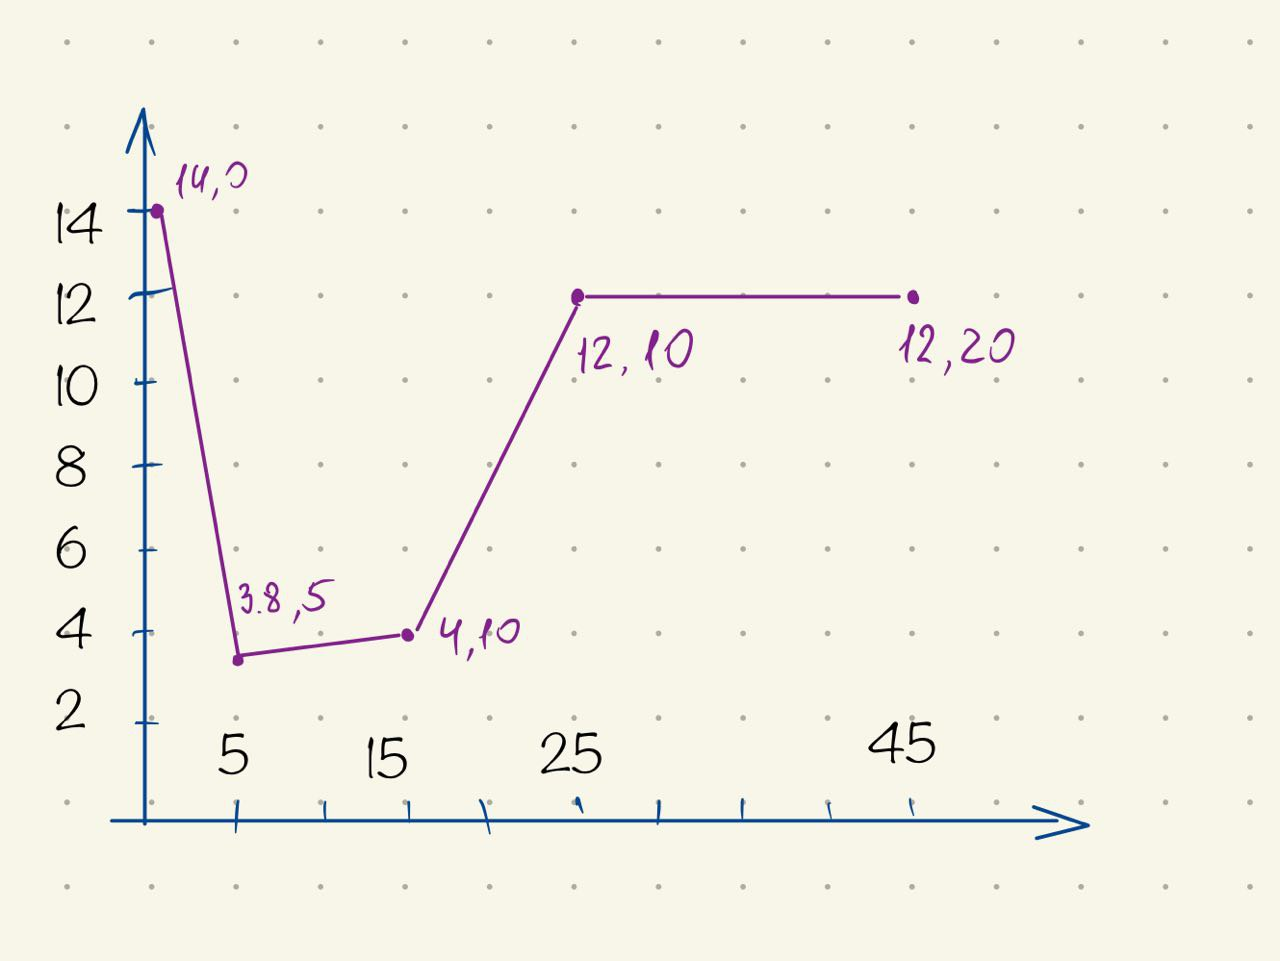
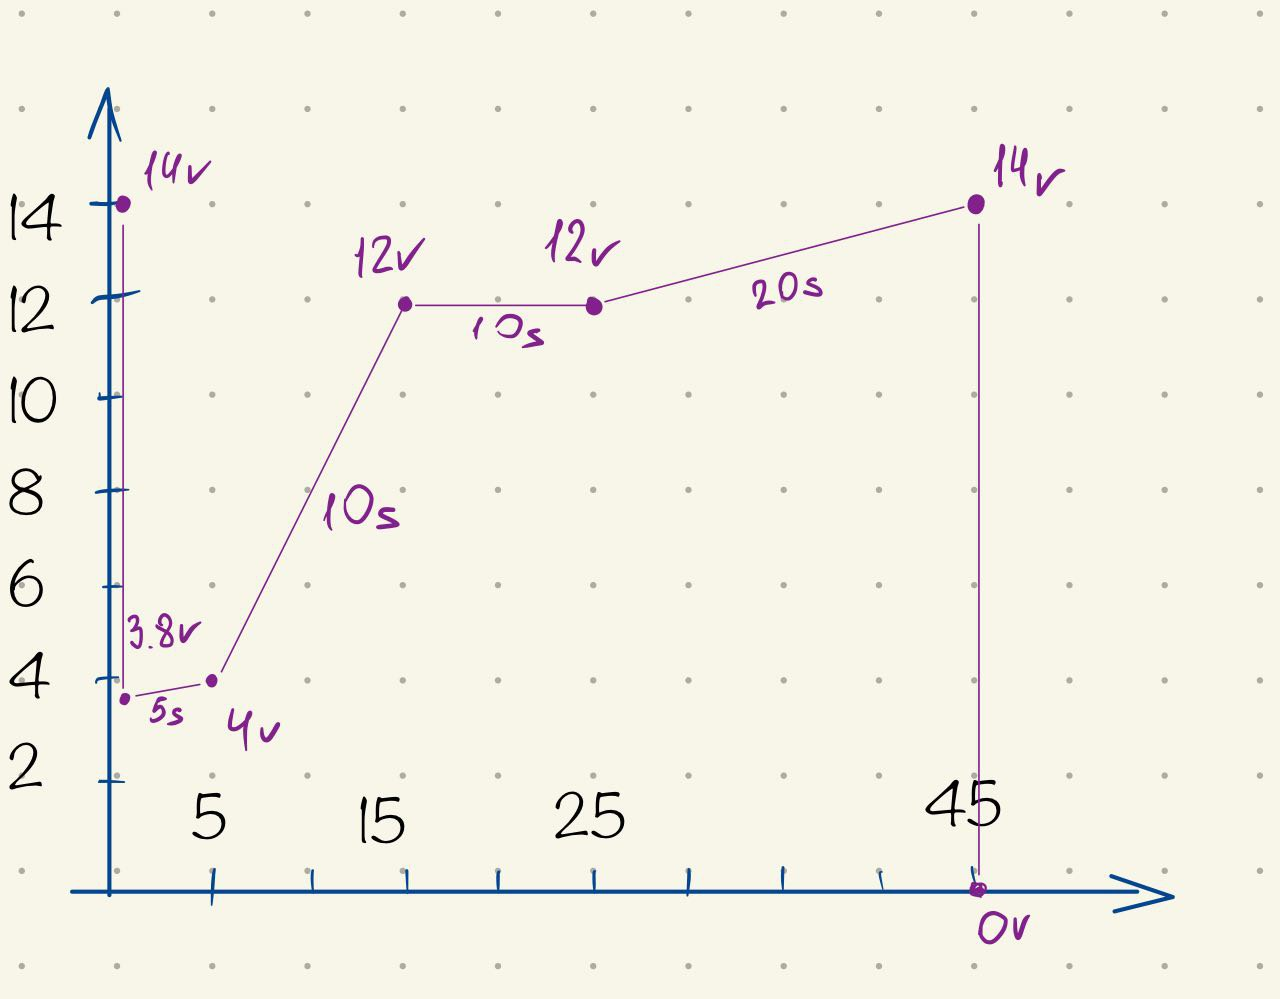
Update picture of WaveForm

diff --git a/README.md b/README.md
@@ -103,10 +103,15 @@ Example:
 4,12.0,10
 5,12.0,20
 ```
+Command: `ssp9081 --setWaveForm example.csv --setWaveFormCycleNumber 1 --startWaveForm`
+will trigger this profile in SSP9081
+
 ![SSP-9081_WaveForm example](https://github.com/maslovw/SSP-9081/blob/master/doc/WaveFormExample.jpg)
 
 - Step 1: set 14V immidiately
-- Step 2: set 3.8V during 5 sec
-- Step 3: set 4V during 10 sec
+- Step 2: set 3.8V immidiately
+- Step 3: set 4V during 5 sec
 - Step 4: set 12V during 10 sec
-- Step 5: pause 12V for 20 sec
+- Step 5: pause 12V for 10 sec
+- Step 6: set 14V during 20 sec (falling to Step1)
+- Switch off power (if `--setWaveFormCycleNumber 1` is specified, otherwise continue to Step2)
